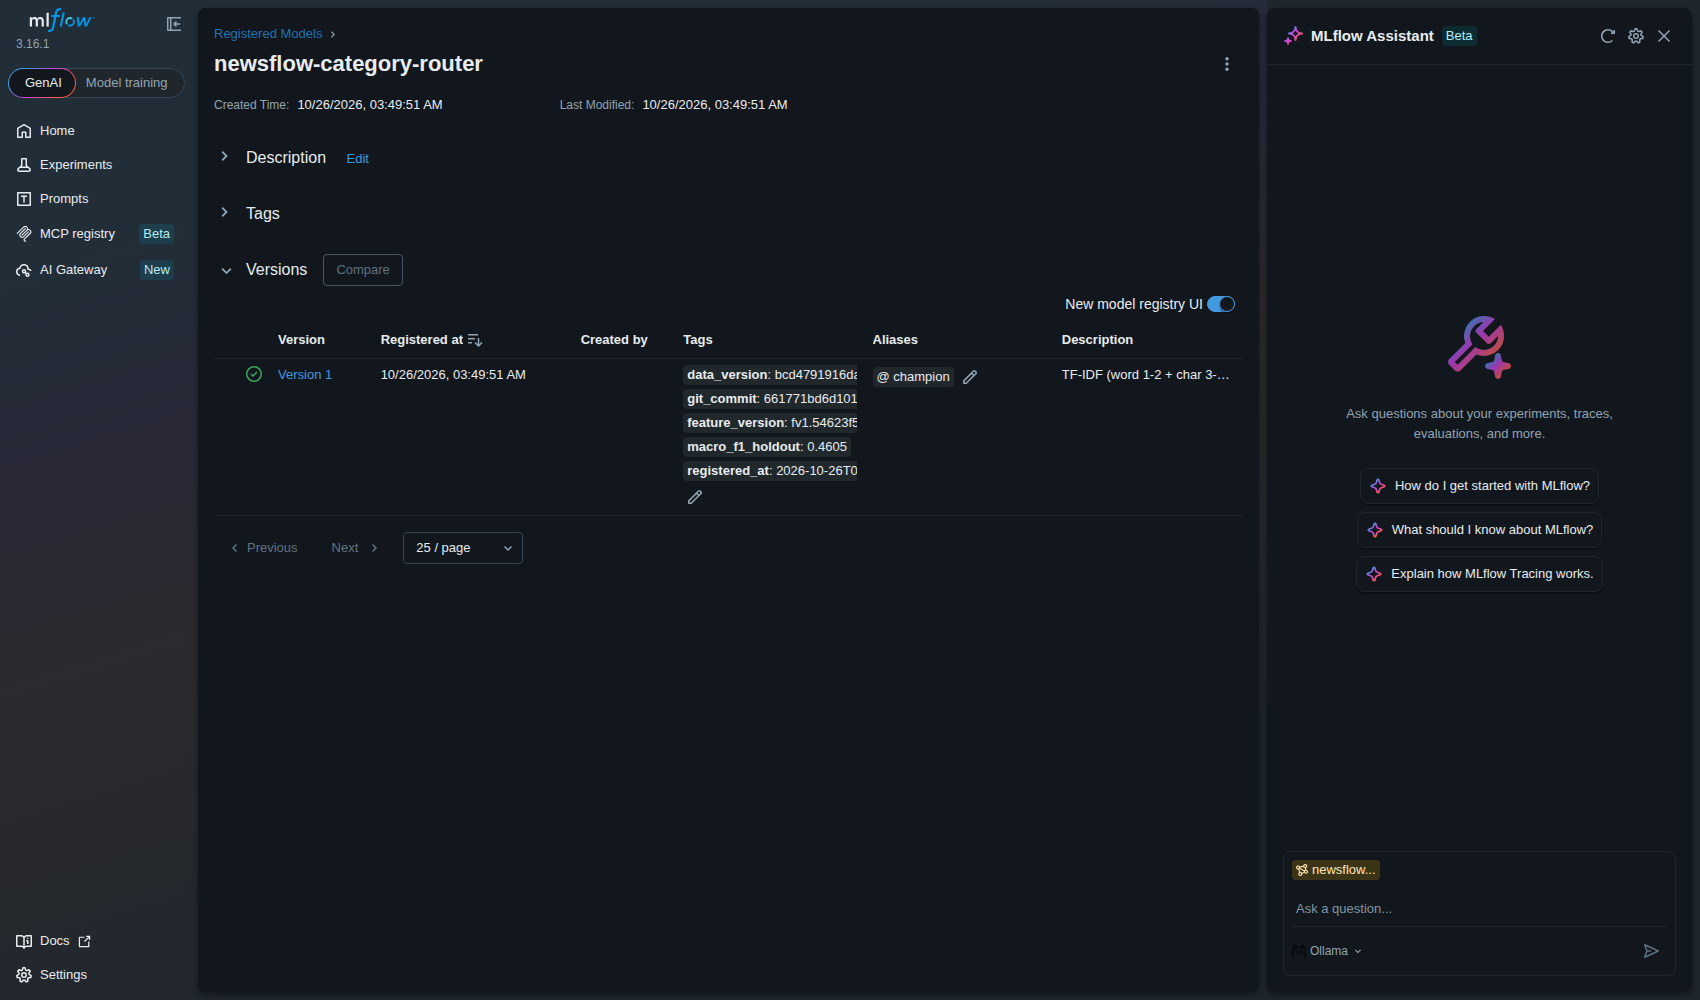
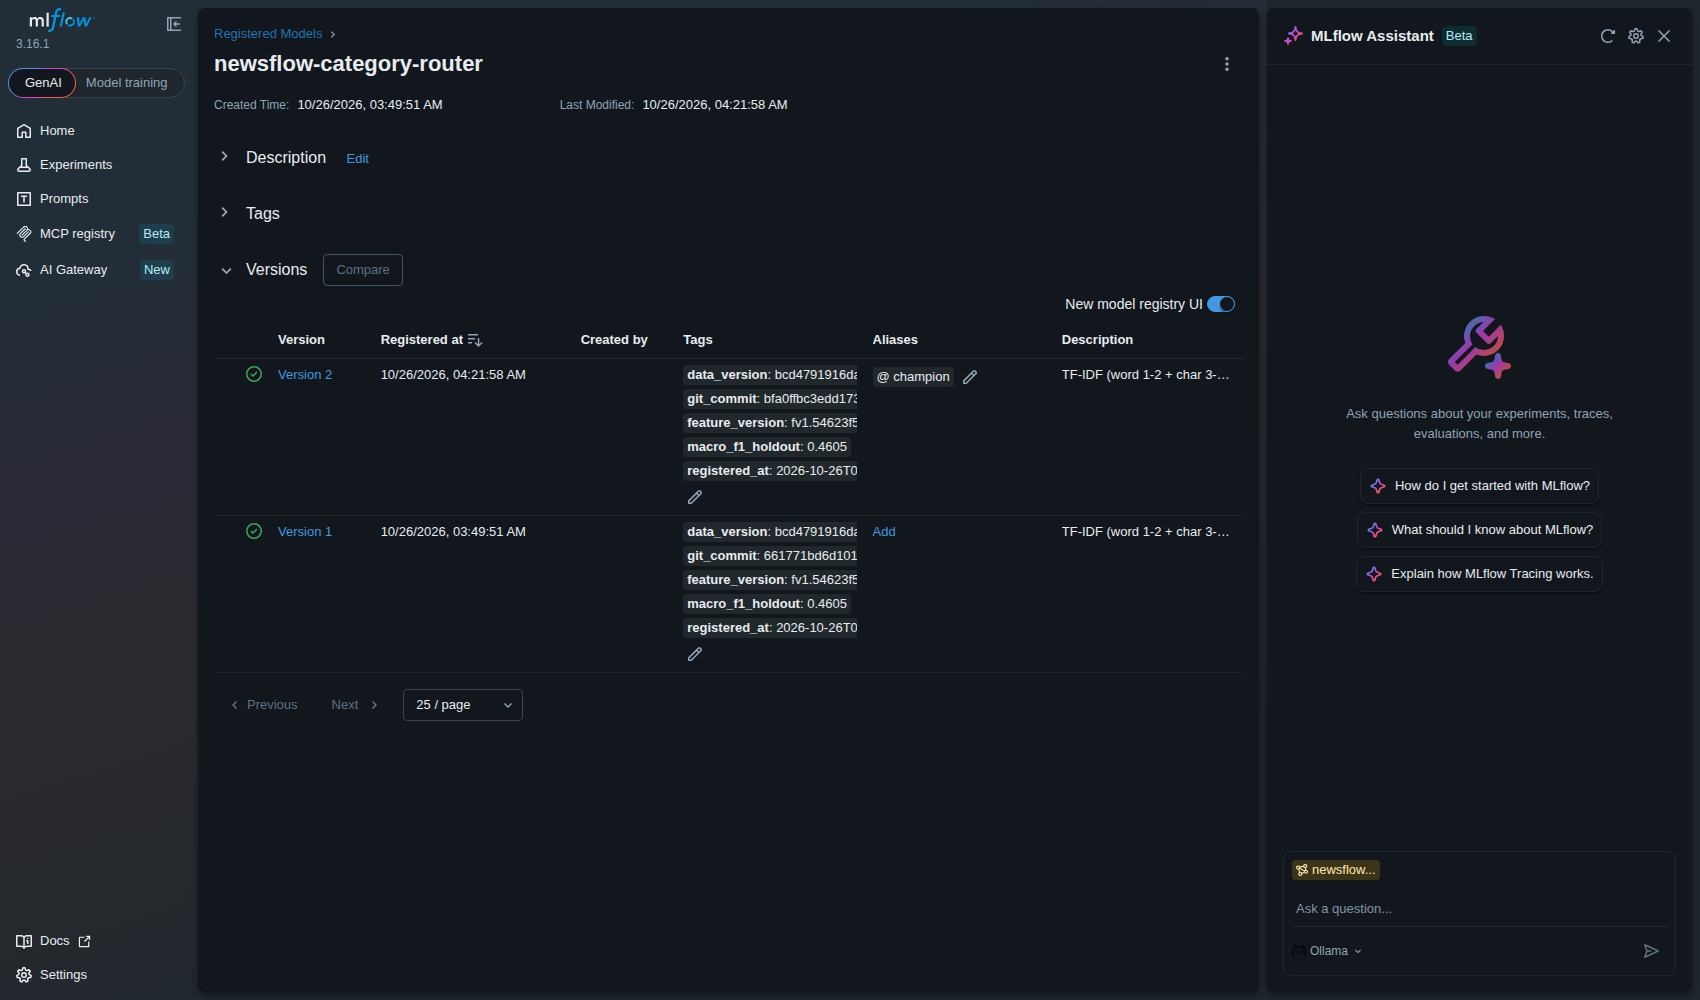
lab 2: register the model from a committed tree, fill 7.2 from the tracking server
v1 was trained before this work was committed, so its git_commit carried a -dirty
suffix and named code nobody could check out - a registered model that cannot be
explained, which is the failure the tag exists to prevent. v2 is trained from
bfa0ffb and reproduces to 0.0000 difference. Both versions are kept: the pair is
the clearest statement of what the tag is for.

The results tables in the README and in 7.2 are generated by `make report` straight
from MLflow rather than transcribed, so the documentation cannot drift from the runs.

diff --git a/dags/ingest_month.py b/dags/ingest_month.py
@@ -4,9 +4,11 @@
 
 **The batch is the data interval, never the clock.** Every task below receives
 `data_interval_start` / `data_interval_end` from the run and filters the archive on
-the article's own `date` field. Nothing in this file calls `datetime.now()`, which is
+the article's own `date` field. No task derives its window from the clock, which is
 what makes a backfill of 2015-03 produce the rows of March 2015 rather than the rows
-of whatever month it is when the backfill is launched.
+of whatever month it is when the backfill is launched. The single `datetime.now()`
+below stamps the run ledger with which attempt wrote the row — a record about the
+execution, never an input to what it selects.
 
 **Why `CronDataIntervalTimetable` and not `schedule="@monthly"`.** Airflow 3 changed
 the default: a plain cron schedule produces runs where `data_interval_start` and
@@ -136,6 +138,9 @@ def ingest_month() -> None:
         ledger = {
             "batch_month": month,
             "dag_run_id": context["dag_run"].run_id,
+            # The only clock read in this DAG, and it is a record of the execution,
+            # never an input to it: which attempt wrote this ledger row. Nothing
+            # downstream branches on it.
             "task_attempt": datetime.now(UTC),
             "data_interval_start": start,
             "data_interval_end": end,

diff --git a/src/newsflow/train.py b/src/newsflow/train.py
@@ -347,7 +347,7 @@ def main(argv: list[str] | None = None) -> int:
     print("\n" + "=" * 66)
     print(f"  {'majority (tier 0)':<26} {majority:.4f}")
     print(f"  {'rule lexicon (tier 0)':<26} {rule:.4f}")
-    print(f"  {'TF-IDF -> LinearSVC (tier 1)':<26} {tier1['macro_f1']:.4f}   <- registered")
+    print(f"  {'TF-IDF -> linear SVM (tier 1)':<26} {tier1['macro_f1']:.4f}   <- registered")
     print(f"  {'  without author prior':<26} {no_prior:.4f}   (R6 delta {delta:+.4f})")
     print(f"  {'validation mean / std':<26} {tier1['val_mean']:.4f} / {tier1['val_std']:.4f}")
     print("=" * 66)

diff --git a/docs/design.md b/docs/design.md
@@ -1084,14 +1084,14 @@ warehouse-scoped — a real defect the clean layer's primary key caught.
 | Mean top-1 confidence | 0.7263 | — |
 | Auto-accept share at τ = 0.6 | 68.8% | target ≥ 60% (design 3.1) |
 
-`newsflow-category-router` version **1**, alias **`@champion`**:
+`newsflow-category-router` version **2**, alias **`@champion`**:
 
 | | |
 | --- | --- |
 | `data_version` | `bcd4791916daeac3fa5dc76786dd8bd5` |
-| `git_commit` | `661771bd6d1010769946e496ee88e048b69b3fc2-dirty` |
+| `git_commit` | `4c168e2bc9adb79a0f72af69dff0b7b2f05fe190` |
 | `feature_version` | `fv1.54623f56` |
-| source run | `35baabe9885d4e68a4a647de8ee60e34` |
+| source run | `d3b86b0722a4478ea77a08e84f9a2328` |
 | recorded hold-out macro-F1 | 0.4605 |
 <!-- RESULTS:END -->
 
